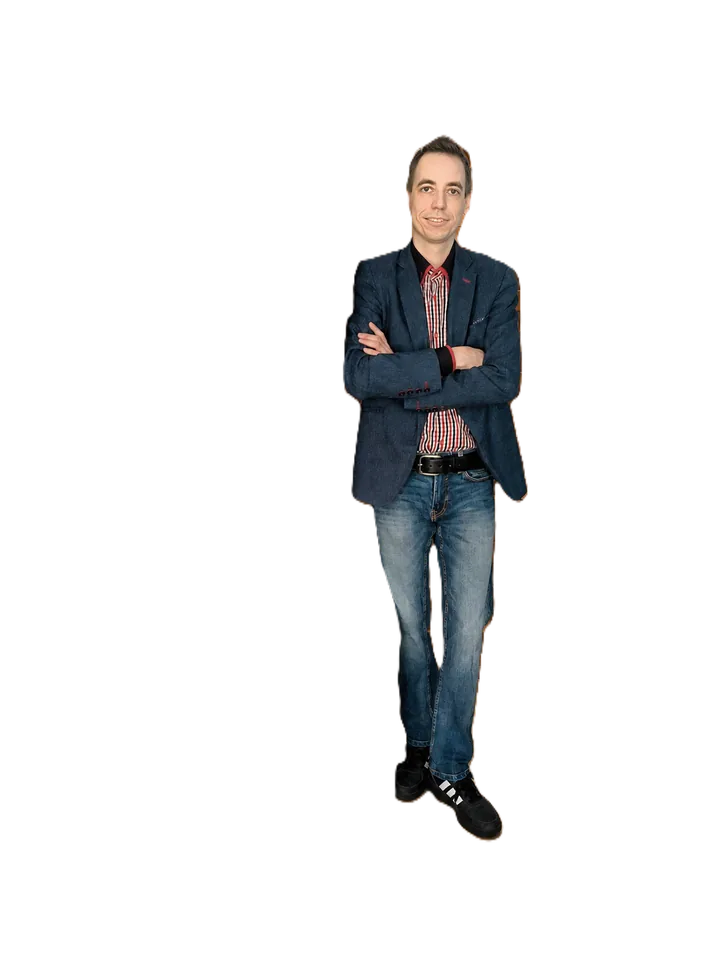
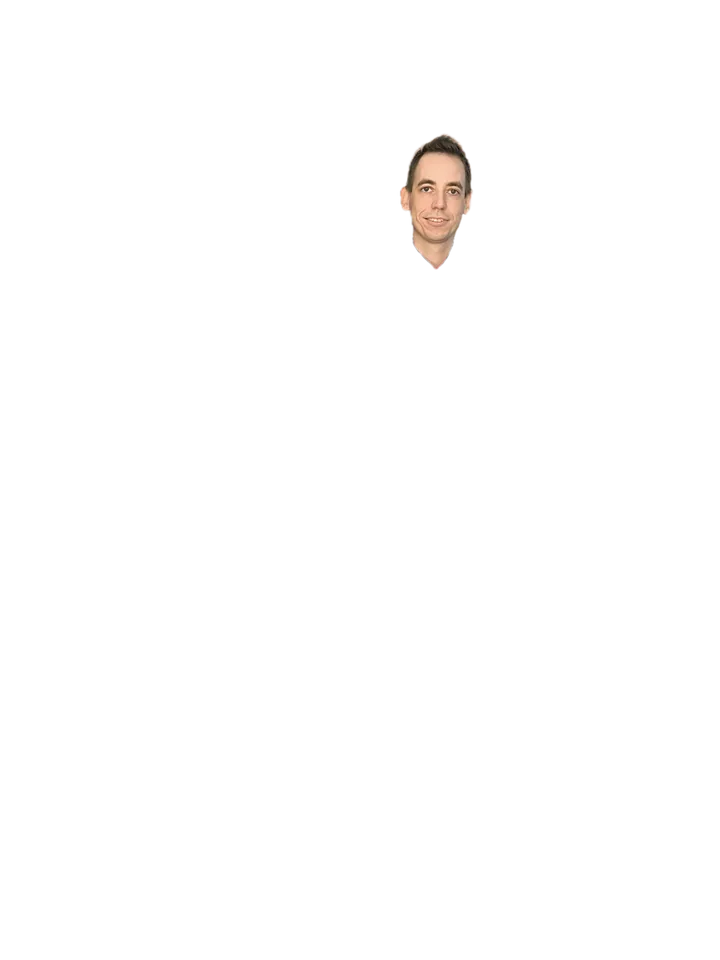
Refine Bio+ and work areas visuals

diff --git a/src/data/biography.ts b/src/data/biography.ts
@@ -9,6 +9,7 @@ export type BiographyChapter = {
   paragraphs: string[];
   chips: string[];
   pull: string;
+  links?: { label: string; href: string }[];
 };
 export const biographyHighlights = [
   { label: "Research field", value: "Listening and perception", detail: "auditory scene analysis, musical structure, psychoacoustics" },
@@ -43,8 +44,12 @@ export const biographyChapters: BiographyChapter[] = [
     paragraphs: [
       "Dr Adam Rosiński is a Polish researcher in the field of musical arts specialising in musical acoustics, psychoacoustics, and sound technology. His scholarly activity focuses on research into music perception, auditory scene analysis, and the organisation of sound structures in the process of musical reception, as well as on the application of modern digital technologies to the recording and analysis of acoustic phenomena. In his work he combines the perspectives of music theory, psychoacoustics, cognitive science, and professional practice in sound direction.",
     ],
-    chips: ["musical acoustics", "psychoacoustics", "auditory scene analysis", "sound direction"],
+    chips: ["musical acoustics", "psychoacoustics", "scene analysis"],
     pull: "The central thread is the relation between how sound is structured, how it is recorded, and how it is perceived.",
+    links: [
+      { label: "Work areas", href: "/work-areas#work-areas-map" },
+      { label: "Journal articles", href: "/publications#journal-articles" },
+    ],
   },
   {
     id: "academic-formation",
@@ -57,8 +62,12 @@ export const biographyChapters: BiographyChapter[] = [
       "He was awarded the degree of Doctor of Arts in the discipline of composition and music theory at the Fryderyk Chopin University of Music in Warsaw. His doctoral dissertation addressed the phenomenon of perceptual streaming in music and examined the mechanisms by which listeners with varying levels of musical training organise sonic material. This research extends the field of auditory scene analysis in the context of musical works and the cognitive processes involved in music perception.",
       "He completed his doctoral studies within the Interfaculty Doctoral Programme at the Fryderyk Chopin University of Music, fulfilling the full four-year curriculum in an accelerated mode within eighteen months. After completing all required coursework and receiving approval from the Faculty Council, he concluded the programme ahead of schedule and proceeded to the defence of his doctoral dissertation. He is also a graduate of the Stanisław Moniuszko Academy of Music in Gdańsk, where he completed his studies at the Faculty of Choral Conducting, Music Education and Eurhythmics, obtaining the degree of Master of Arts with distinction.",
     ],
-    chips: ["Doctor of Arts", "composition and music theory", "Fryderyk Chopin University of Music", "perceptual streaming"],
+    chips: ["Doctor of Arts", "music theory", "FCUM", "perceptual streaming"],
     pull: "The doctoral work established the research foundation for later studies of musical perception and auditory organisation.",
+    links: [
+      { label: "CV PDF", href: "/pdfs/cv/adam-rosinski-cv.pdf" },
+      { label: "Research profiles", href: "/publications#profiles-alt" },
+    ],
   },
   {
     id: "auditory-perception",
@@ -70,8 +79,12 @@ export const biographyChapters: BiographyChapter[] = [
     paragraphs: [
       "The central focus of Dr Adam Rosiński’s research concerns the organisation of auditory perception in music, particularly the mechanisms responsible for the formation of perceptual streams (auditory streams), which enable listeners to identify sound structures within complex acoustic environments. His research develops classical psychoacoustic approaches to auditory scene analysis by extending them to the analysis of actual musical works and the context of performance practice. An important contribution to research on music perception is his concept of multivariant musical perception, according to which the same musical material may be interpreted differently by listeners depending on attentional mechanisms, musical experience, and perceptual context. His work also examines the influence of musical structure on the organisation of auditory impressions and on the identification of sound layers within a musical work. This phenomenon constitutes an important point of reference for music theory, psychoacoustics, sound direction, and research into the cognitive dimensions of music reception.",
     ],
-    chips: ["auditory streams", "auditory scene analysis", "multivariant perception", "musical reception"],
+    chips: ["streams", "ASA", "multivariant"],
     pull: "The same musical material may be heard differently depending on attention, training and perceptual context.",
+    links: [
+      { label: "Related publications", href: "/publications#journal-articles" },
+      { label: "Work areas map", href: "/work-areas#work-areas-map" },
+    ],
   },
   {
     id: "recording-technology",
@@ -83,8 +96,12 @@ export const biographyChapters: BiographyChapter[] = [
     paragraphs: [
       "Another important strand of Dr Adam Rosiński’s research concerns studio technology, particularly issues related to the recording, processing, and reproduction of sound in professional recording studio environments. Within this area he conducts research on microphone techniques used in stereophonic and multichannel systems, analysing their influence on the shaping of sonic space, the localisation of phantom sources, and the perception of the acoustic scene by listeners. A key aspect of this work is the analysis of the relationship between the acoustic properties of recording spaces and the process of sound recording and reception, including issues related to the acoustics of music rooms, sound field control, and the design of listening environments intended for studio work. His research also addresses the use of digital technologies in music production, encompassing both sound recording and editing systems and the tools used in mixing and mastering processes. An important dimension of his research activity is the application of contemporary audio technologies in artistic education, including digital music production environments, virtual instrument systems, and multimedia tools supporting the teaching of recording practice, music production, and sound technology.",
     ],
-    chips: ["microphone techniques", "multichannel recording", "studio acoustics", "digital audio"],
+    chips: ["microphone techniques", "multichannel", "studio acoustics"],
     pull: "Recording practice is treated not as a separate craft, but as a research environment for studying space, localisation and listening.",
+    links: [
+      { label: "Authorial prototypes", href: "/work-areas#authorial-prototypes" },
+      { label: "Audio demonstrator", href: "/audio-demonstrator#audio-demo-alt" },
+    ],
   },
   {
     id: "publishing-editorial-work",
@@ -96,8 +113,13 @@ export const biographyChapters: BiographyChapter[] = [
     paragraphs: [
       "The scholarly output of Dr Adam Rosiński includes four academic monographs, a number of articles published in national and international scholarly journals, several chapters in academic monographs, and numerous papers presented at national and international conferences. An important element of his academic activity is the consistent dissemination of research findings within the open access model. According to his philosophy of knowledge dissemination, scholarly publications should remain universally accessible to audiences worldwide, regardless of the financial capacities of institutions or individual researchers. For this reason, his academic works are published as widely as possible in open-access form, with the aim of supporting the global circulation of knowledge and the unrestricted development of scholarly research. Dr Adam Rosiński is the founder and scientific editor of the international publication series Perspectives of Acoustics, devoted to contemporary issues in musical acoustics, sound technology, and research on music perception. This initiative was established to create an interdisciplinary publishing platform for research combining music theory, psychoacoustics, audio technology, and the practice of sound direction. The series brings together work by researchers engaged in the broad study of sound, providing a forum for scholarly exchange and for the presentation of research findings within the international academic community.",
     ],
-    chips: ["monographs", "open access", "edited volumes", "Perspectives of Acoustics"],
+    chips: ["monographs", "open access", "PoA series"],
     pull: "The publication profile is shaped by a consistent commitment to the broad circulation of research on music, sound and perception.",
+    links: [
+      { label: "Books", href: "/publications#selected-publications" },
+      { label: "Editorial publications", href: "/publications#editorial-work" },
+      { label: "Editorial roles", href: "/editorial-roles" },
+    ],
   },
   {
     id: "review-service",
@@ -109,8 +131,12 @@ export const biographyChapters: BiographyChapter[] = [
     paragraphs: [
       "A fundamental element of Dr Adam Rosiński’s academic activity is his reviewing work within the international scholarly community, comprising several dozen completed reviews. He serves as a reviewer of scholarly articles, chapters in monographs, and edited volumes prepared under the quadruple-blind review procedure, participating in the evaluation of research quality in the fields of musical arts, musical acoustics, engineering, and sound technology. His expert assessments concern, in particular, issues related to music perception, psychoacoustics, auditory scene analysis, and the application of digital technologies in music production and education. Participation in review processes constitutes an important contribution by Dr Rosiński to the development of international scholarly discourse and to the maintenance of high methodological and substantive standards in research on music, sound, and auditory perception.",
     ],
-    chips: ["peer review", "quadruple-blind review", "research quality", "scholarly standards"],
+    chips: ["peer review", "quadruple-blind", "research quality"],
     pull: "Review work contributes to the methodological and substantive standards of international research on music and sound.",
+    links: [
+      { label: "Peer review areas", href: "/editorial-roles#review-section-title" },
+      { label: "Editorial page", href: "/editorial-roles" },
+    ],
   },
   {
     id: "uwm-and-infrastructure",
@@ -122,8 +148,12 @@ export const biographyChapters: BiographyChapter[] = [
     paragraphs: [
       "Between 2016 and 2026 he was affiliated with the University of Warmia and Mazury in Olsztyn, where he served as an assistant professor at the Institute of Music within the Faculty of Arts. He taught a wide range of courses, including Introduction to Musical Acoustics, Introduction to Electroacoustics, Recording Techniques Workshops, Studio Working Techniques, Studio Recording Practice, Digital Technologies in Music, Computer Music Systems, and Electronic Instruments, Computer music composition, Digital Music Arrangement. Dr Adam Rosiński was one of the initiators of the establishment of the degree programme “Music Production and Sound Engineering” at the University of Warmia and Mazury in Olsztyn. He participated in the conceptual and curricular work related to its creation, co-developing its substantive framework and the structure of the curriculum. His contribution included, in particular, the development of teaching content in the fields of sound technology, recording practice, music production, and musical acoustics. The programme was designed as a modern course of study integrating knowledge from the fields of musical arts, audio technology, and contemporary methods of sound production, responding to the needs of the rapidly developing music production and audiovisual industries. He also served as Head of the Recording Studio of the Artistic Initiatives Centre at the University of Warmia and Mazury in Olsztyn, playing a key role in the creation and development of the technological infrastructure of this unit. He was the initiator and co-author of the technological concept of the recording studio, developing original assumptions regarding the sound recording and processing system that were subsequently implemented during the design and construction of the studio. His work included designing the technological architecture of audio signal chains, selecting specialised equipment, and co-developing acoustic and technical solutions enabling advanced teaching, research, and artistic activity in the field of recording practice and music production.",
     ],
-    chips: ["University of Warmia and Mazury", "Music Production and Sound Engineering", "recording studio", "curriculum design"],
+    chips: ["UWM", "MPSE programme", "recording studio", "curriculum"],
     pull: "The institutional work links academic teaching with technical infrastructure and the practical conditions of music production education.",
+    links: [
+      { label: "Applications matrix", href: "/work-areas#applications-matrix" },
+      { label: "For students", href: "/audio-demonstrator#audio-demo-alt" },
+    ],
   },
   {
     id: "interdisciplinary-teaching",
@@ -135,8 +165,12 @@ export const biographyChapters: BiographyChapter[] = [
     paragraphs: [
       "Earlier he worked at the Academy of Fine Arts in Gdańsk within the Interfaculty Institute of Art Sciences, where he taught interdisciplinary courses for first- and second-cycle students. These courses explored the relationships between musical art and the visual arts in the context of contemporary digital technologies and multimedia tools used in artistic practice. They addressed issues related to the integration of image and sound, the use of computer technologies in artistic creation, and the application of digital environments in the design and realisation of audiovisual projects. This teaching activity also encompassed contemporary forms of artistic expression in which music, image, and electronic media form coherent artistic structures characteristic of multimedia and intermedia art.",
     ],
-    chips: ["visual arts", "multimedia", "intermedia art", "audiovisual projects"],
+    chips: ["visual arts", "multimedia", "intermedia"],
     pull: "The profile extends beyond musical acoustics into forms of artistic practice where sound, image and digital media operate together.",
+    links: [
+      { label: "Work areas", href: "/work-areas#work-areas-map" },
+      { label: "Music label", href: "/music-label" },
+    ],
   },
   {
     id: "sound-direction-practice",
@@ -148,8 +182,12 @@ export const biographyChapters: BiographyChapter[] = [
     paragraphs: [
       "Alongside his academic work, Dr Adam Rosiński is also active as a sound director and music producer, specialising in stereophonic and multichannel recording. In his professional practice he is involved in the recording, editing, and processing of sound material, collaborating on phonographic and audiovisual projects. Experience gained through practical production work constitutes an important point of reference for his scholarly research, which emerges from direct engagement with real problems of sound technology and music perception. In his approach theoretical reflection is not detached from practice but rather constitutes its extension and deepening, allowing scholarly research to remain closely connected with artistic experience and the real processes of sound creation and recording.",
     ],
-    chips: ["sound direction", "music production", "stereophonic recording", "multichannel systems"],
+    chips: ["sound direction", "music production", "multichannel"],
     pull: "Studio practice provides a concrete ground for research questions about perception, technology and the shaping of musical sound.",
+    links: [
+      { label: "Research to prototype", href: "/work-areas#research-to-prototype" },
+      { label: "Music label", href: "/music-label" },
+    ],
   },
   {
     id: "organisations",
@@ -161,8 +199,12 @@ export const biographyChapters: BiographyChapter[] = [
     paragraphs: [
       "Dr Adam Rosiński is a member of numerous national and international scholarly organisations devoted to acoustics, sound technology, and research on music perception, including the American Auditory Society, the Acoustical Society of America, the European Acoustics Association, the Society for Music Production Research, the Society for Music Theory, the Society for Music Analysis, the Society for Music Perception and Cognition, the Cognitive Science Society, the Institute of Electrical and Electronics Engineers, the Association for Computing Machinery, the Audio Engineering Society, the Polish Acoustical Society, the Federation of Scientific and Technical Associations – Supreme Technical Organisation, and the Polish Sound Engineers Association.",
     ],
-    chips: ["American Auditory Society", "AES", "IEEE", "ACM", "Polish Acoustical Society", "PSRD"],
+    chips: ["AAS", "AES", "IEEE", "ACM", "PTA", "PSRD"],
     pull: "The network of organisations reflects the interdisciplinary scope of the work: from auditory science and acoustics to engineering and music analysis.",
+    links: [
+      { label: "Professional service", href: "/editorial-roles" },
+      { label: "Editorial publications", href: "/editorial-roles#editorial-work-publications-title" },
+    ],
   },
   {
     id: "synthesis",
@@ -174,7 +216,12 @@ export const biographyChapters: BiographyChapter[] = [
     paragraphs: [
       "His scholarly, publishing, and artistic activity lies at the intersection of research on music perception, sound technology, and contemporary reflection on the structure and reception of the musical work. By combining the perspectives of music theory, psychoacoustics, and the practice of sound direction, he develops an interdisciplinary approach to the study of music and sound that contributes to the international academic discourse on the relationships between musical structure, its perception, and the technologies of its recording and processing.",
     ],
-    chips: ["music perception", "sound technology", "recording practice", "musical structure"],
+    chips: ["music perception", "sound technology", "recording practice"],
     pull: "Across the profile, musical structure, listening and recording technology remain parts of one research field.",
+    links: [
+      { label: "Work areas", href: "/work-areas" },
+      { label: "Publications", href: "/publications" },
+      { label: "Editorial", href: "/editorial-roles" },
+    ],
   },
 ];

diff --git a/src/data/inventions.ts b/src/data/inventions.ts
@@ -11,7 +11,6 @@ export type Invention = {
   image: string;
   imageAlt: string;
   articleHref?: string;
-  sourceNote?: string;
   relatedAreas: string[];
   tags: string[];
   innovationPoints: string[];
@@ -32,11 +31,9 @@ export const inventions: Invention[] = [
       "A large-scale circular audio environment for experiments in multichannel listening, spatial perception, and situated sound practice.",
     status: "article-related",
     publicLabel: "Authorial prototype",
-    image: "/images/inventions/circular-audio-array-transparent.png",
+    image: "/images/inventions/circular-audio-array.webp",
     imageAlt:
       "Large black circular multichannel audio array suspended above a seated listener.",
-    sourceNote:
-      "Replace the temporary Open ICM bitstream link with a stable public record URL before publishing a source CTA.",
     relatedAreas: ["Perception", "Space", "Authorial Prototypes", "Artistic Research"],
     tags: ["immersive audio", "multichannel listening", "spatial system"],
     innovationPoints: [
